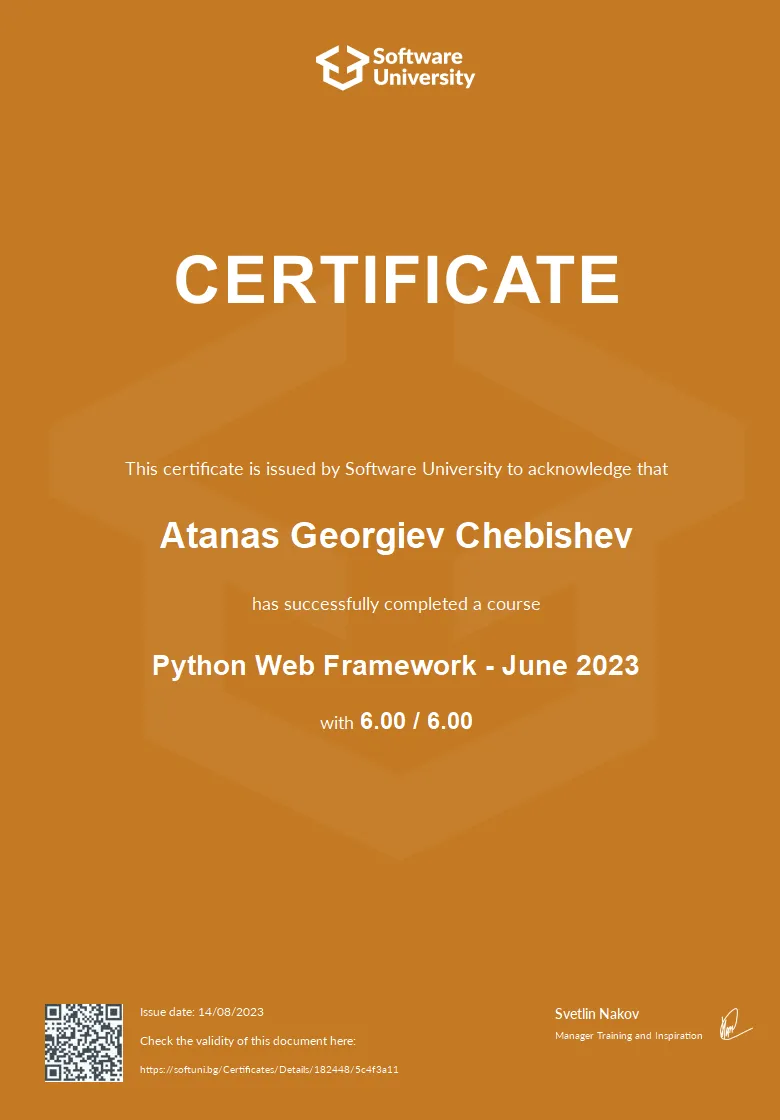
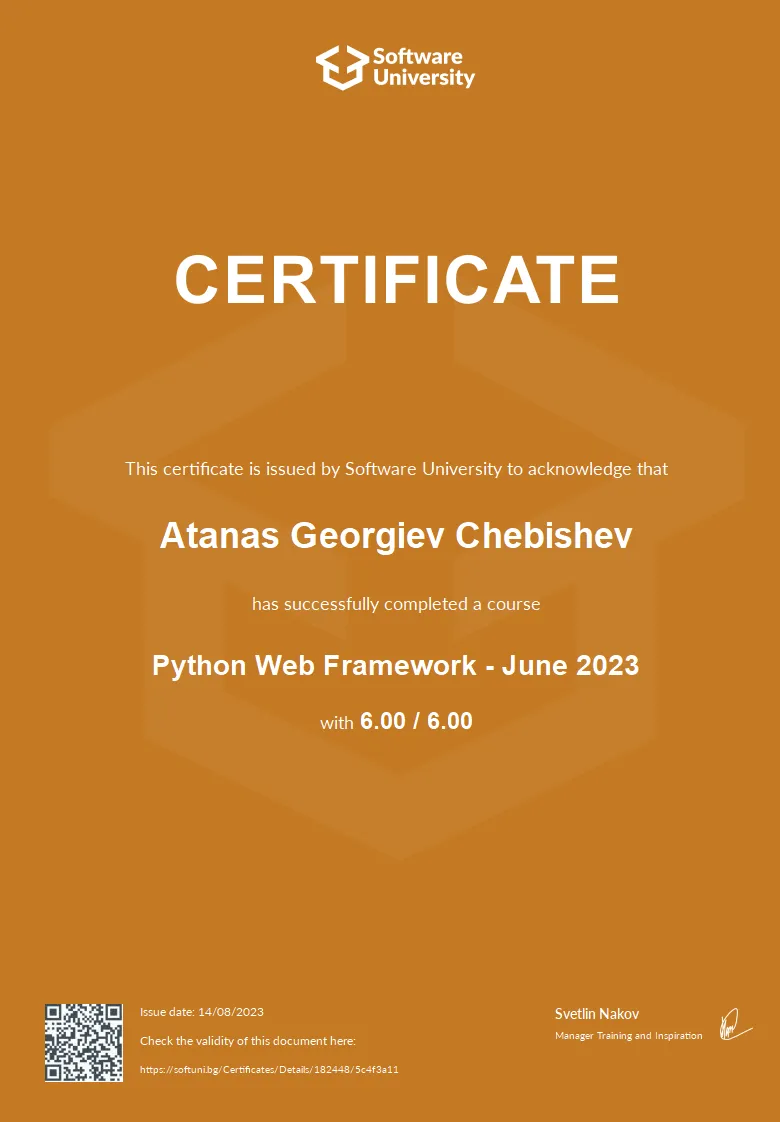
Intern & Team Lead Academy certificate added resize all SoftUni certificates to 780x1122 pixels

diff --git a/index.html b/index.html
@@ -77,7 +77,7 @@
             alt="SoftUni JavaScript Basics certificate">
           <img src="certificates/04 Python OOP.webp" style="width:100%" onclick="onClick(this)"
             alt="SoftUni Python OOP certificate">
-          <img src="certificates/08 HTML&CSS Fundamentals.webp" style="width:100%" onclick="onClick(this)" alt="SoftUni HTML&CSS Fundamentals certificate">
+          <img src="certificates/08 HTML & CSS Fundamentals.webp" style="width:100%" onclick="onClick(this)" alt="SoftUni HTML&CSS Fundamentals certificate">
           <!-- <img src="#" style="width:100%" onclick="onClick(this)" alt=""> -->
         </div>
 
@@ -104,7 +104,7 @@
           <img src="certificates/03 Python Advanced.webp" style="width:100%" onclick="onClick(this)"
             alt="SoftUni Python Advanced certificate">
           <img src="certificates/07 Introduction to Cyber Security.webp" style="width:100%" onclick="onClick(this)" alt="SoftUni Cyber Security Fundamentals certificate">
-          <!-- <img src="#" style="width:100%" onclick="onClick(this)" alt=""> -->
+          <img src="certificates/11 Intern & Team Lead Academy.webp" style="width:100%" onclick="onClick(this)" alt="Softuni Intern & Team Lead Academy (Nov 2023 - Feb 2024)">
           <!-- <img src="#" style="width:100%" onclick="onClick(this)" alt=""> -->
         </div>
       </div>
